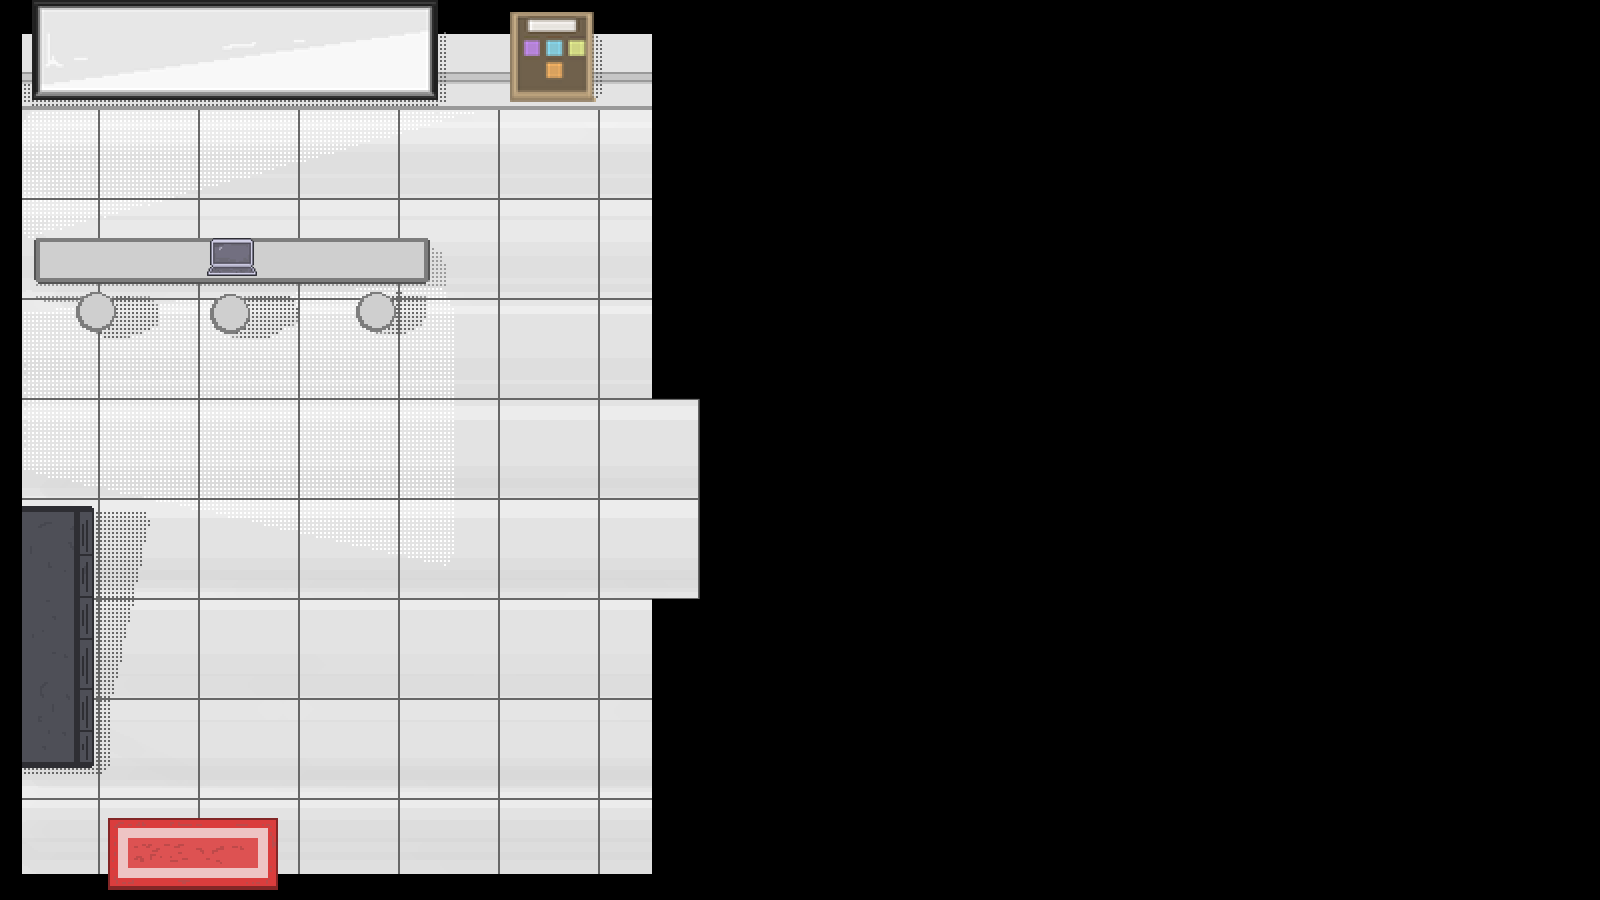
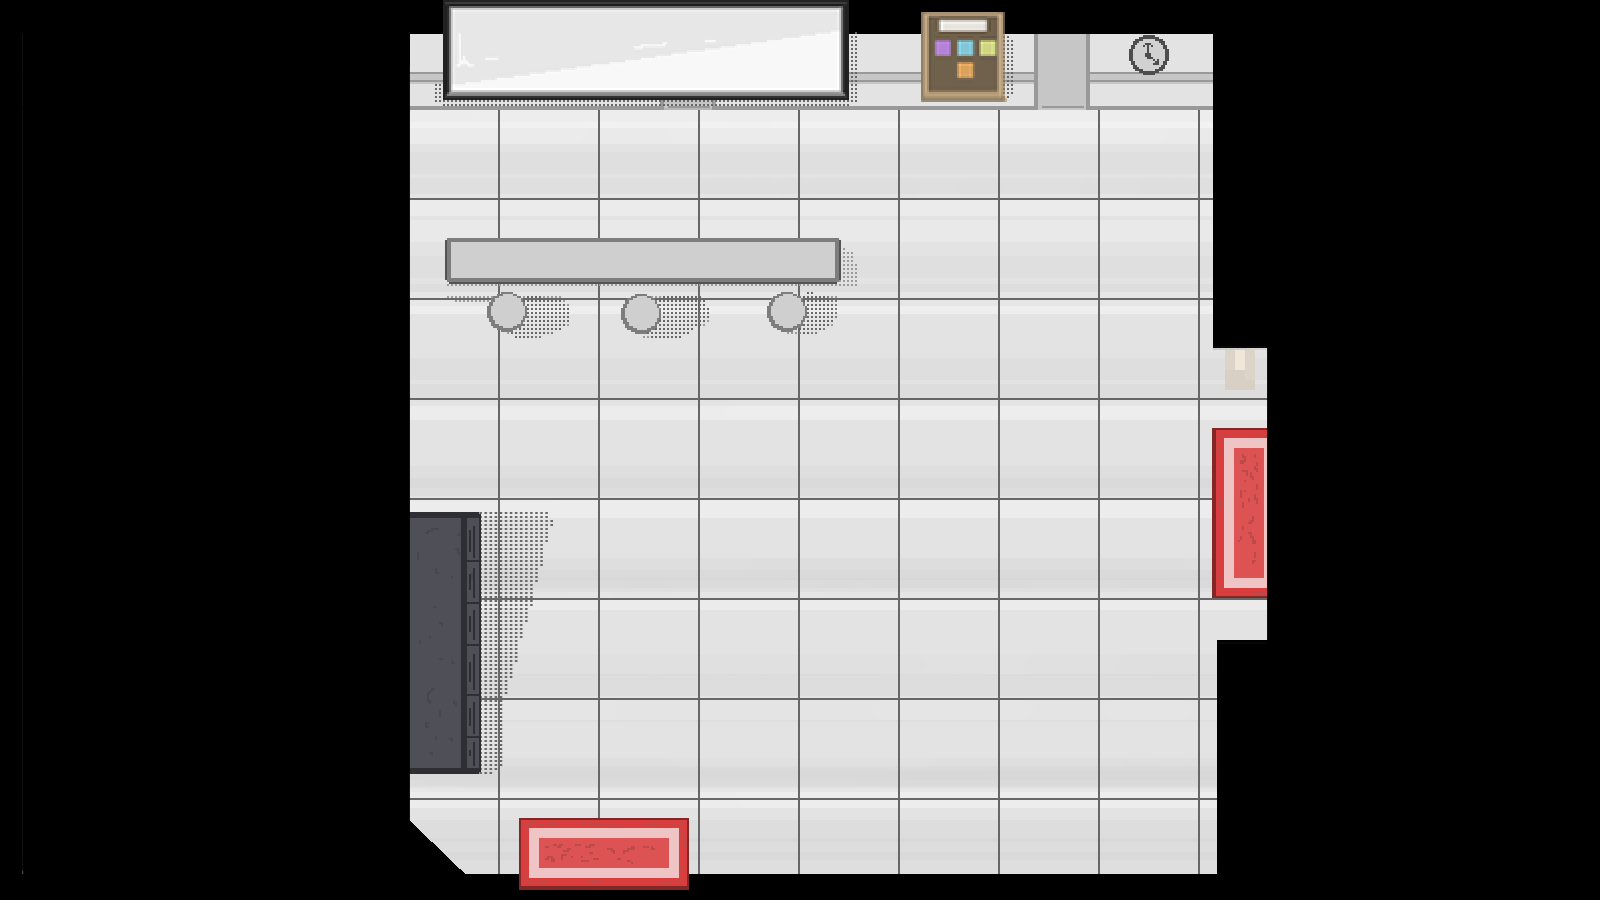
housemap update

diff --git a/core/src/com/codex/learning/states/PlayState.java b/core/src/com/codex/learning/states/PlayState.java
@@ -75,47 +75,19 @@ public class PlayState extends State{
         blockDispensers = new BlockDispenser[2];
 
         computer = new Computer(manager, fuzzyLogic);
-        computer.create(new Vector2(-18, 2.8f), new Vector2(0.6f, 0.6f), 0);
-
-        // WILL BE USED, DON'T ERASE
-        for(int i = 0; i < 10; i++){
-//            if(i == 0){
-//                blocks[i] = new Blocks(manager, "}", "   } ");
-//                blocks[i].create(new Vector2(1.2f + (i * 10), 0),
-//                        new Vector2(Constants.BLOCKS_BRACE_WIDTH, Constants.BLOCKS_HEIGHT), 0);
-//            }
-//            if(i == 1){
-//                blocks[i] = new Blocks(manager, "class", "class HelloWorld{");
-//                blocks[i].create(new Vector2(1.2f + (i * 10), 0),
-//                        new Vector2(Constants.BLOCKS_CLASS_WIDTH, Constants.BLOCKS_HEIGHT), 0);
-//            }
-//            if(i == 2){
-//                blocks[i] = new Blocks(manager, "args", "String[] args)");
-//                blocks[i].create(new Vector2(1.2f + (i * 10), 0),
-//                        new Vector2(Constants.BLOCKS_ARGS_WIDTH, Constants.BLOCKS_HEIGHT), 0);
-//            }
-            blockHolders[i] = new BlockHolder(manager, "}");
-            blockHolders[i].create(new Vector2(6f , i * 2), new Vector2(Constants.BLOCK_HOLDER_WIDTH, Constants.BLOCK_HOLDER_HEIGHT), 0);
+        if(stage >= 1 && stage < 5){
+            computer.create(new Vector2(-6, 2.8f), new Vector2(0.6f, 0.6f), 0);
         }
-        // WILL BE USED, DON'T ERASE
-
-        for(int i = 0; i < 2; i++){
-            if(i == 0){
-                blockDispensers[i] = new BlockDispenser(manager, "Down", "try", "   }  ",
-                        3, new Vector2(Constants.BLOCKS_BRACE_WIDTH, Constants.BLOCKS_HEIGHT));
-            }
-            else{
-                blockDispensers[i] = new BlockDispenser(manager, "Right", "hard", "   }  ",
-                        3, new Vector2(Constants.BLOCKS_BRACE_WIDTH, Constants.BLOCKS_HEIGHT));
-            }
-            blockDispensers[i].create(new Vector2(15 * i, -6), new Vector2(0.3f, 1.3f), 0);
+        else if(stage >=5 && stage < 12){
+            computer.create(new Vector2(-17, 6.5f), new Vector2(0.6f, 0.6f), 0);
         }
+
 
         jedisaur = new Character(manager);
-        jedisaur.create(new Vector2(-15, -5), new Vector2(1.2f, 1.75f), 1.6f);
+        jedisaur.create(new Vector2(0, -5), new Vector2(1.2f, 1.75f), 1.6f);
 
         jediGrandpa = new NPC(manager, stage);
-        jediGrandpa.create(new Vector2(-10, 0), new Vector2(1, 1.4f), 0);
+        jediGrandpa.create(new Vector2(0, 0), new Vector2(1, 1.4f), 0);
 
         totalBlocks = new Blocks[6];
         blockCount = 0;
@@ -245,10 +217,13 @@ public class PlayState extends State{
             if(computer.getCodeRiddle().isInComputer()){
                 jedisaur.render(sprite);
                 computer.render(sprite);
+
+
             }
             else{
-                jedisaur.render(sprite);
                 computer.render(sprite);
+                jedisaur.render(sprite);
+
             }
         }else {
             playroomMap.render(sprite);
@@ -324,7 +299,6 @@ public class PlayState extends State{
         else if(stage >= 5 && stage < 12){
             schoolMap.dispose();
         }
-
     }
 
     public void activeBody(boolean active){
@@ -358,15 +332,24 @@ public class PlayState extends State{
     }
 
     public void enterPlayRoom(Character character){
-        if(character.getBody().getPosition().x > -5.3f && character.getBody().getPosition().y >-4 && character.getBody().getPosition().y < 2.5f){
-            setInStartArea(false);
-
+        if(character.getBody().getPosition().x > 14f && character.getBody().getPosition().y >-4 && character.getBody().getPosition().y < 2.5f){
+            if(computer.isDone()){
+                setInStartArea(false);
+                house.setPlayroomActive(false);
+                jedisaur.getBody().setTransform(-20, 1, 0);
+                jedisaur.getBody().getPosition().set(-20, 1);
+            }
+            else {
+                System.out.println("bawal kapa pumasok jan xD");
+            }
         }
     }
 
     private void exitPlayroom(Character character){
         if(!inStartArea && character.getBody().getPosition().x < -23 && character.getBody().getPosition().y > -4 && character.getBody().getPosition().y < 2.5f){
             setInStartArea(true);
+            jedisaur.getBody().setTransform(14, 1, 0);
+            jedisaur.getBody().getPosition().set(14, 1);
         }
     }
 

diff --git a/core/src/com/codex/learning/states/minigames/CodeRiddle.java b/core/src/com/codex/learning/states/minigames/CodeRiddle.java
@@ -52,7 +52,7 @@ public class CodeRiddle extends State {
 
 
 
-    private boolean inComputer;
+    private boolean inComputer, isDone;
     private int currentQuestion;
     private int error;
 
@@ -105,7 +105,7 @@ public class CodeRiddle extends State {
 
 
         inComputer = false;
-
+        isDone = false;
         getAQuestion("Stage 1", "Novice");
         currentQuestion = 0;
     }
@@ -125,7 +125,7 @@ public class CodeRiddle extends State {
         sprite.begin();
         if(isInComputer()){
             timer += Gdx.graphics.getDeltaTime();
-            System.out.println(timer);
+//            System.out.println(timer);
 
         }
         manager.getStage().act();
@@ -140,13 +140,8 @@ public class CodeRiddle extends State {
         if(isInComputer()){
 
             table.setFillParent(true);
-//            table.debug();
             table.defaults().size(500, 150);
             table.setPosition(manager.getCamera().position.x - Constants.SCREEN_WIDTH/2/Constants.PPM,manager.getCamera().position.x - Constants.SCREEN_HEIGHT/2/Constants.PPM - 10);
-//            text.setText("questions.get(currentQuestion\nasd\nasd\nquestions.get(currentQuesasdasdadadation\nasd\nasd\nasd\nasd\nasd\nquestions.get(currentQuestion\nasd\nasd" +
-//                    "\nquestions.get(currentQuestion\nasd\nasd\nquestions.get(currentQuesasdasdadadation\nasd\nasd\nasd\nasd\nasd\nquestions.get(currentQuestion\nasd\nasd" +
-//                    "\nquestions.get(currentQuestion\nasd\nasd\nquestions.get(currentQuesasdasdadadation\nasd\nasd\nasd\nasd\nasd\nquestions.get(currentQuestion\nasd\nasd" +
-//                    "\nquestions.get(currentQuestion\nasd\nasd\nquestions.get(currentQuesasdasdadadation\nasd\nasd\nasd\nasd\nasd\nquestions.get(currentQuestion\nasd\nasd");
 
             text.setWrap(true);
            if(currentQuestion == manager.getQuestionnaire().getQuestionLimit()){
@@ -206,7 +201,9 @@ public class CodeRiddle extends State {
                                    fuzzyLogic.fuzzyNumberOfError();
                                    fuzzyLogic.fuzzyTimeConsumption();
 
-                                   text.setText("PRESS F TO CLOSE");
+
+                                   text.setText("Your score is: \n" + (manager.getQuestionnaire().getQuestionLimit()-error) + "\n");
+                                   setDone(true);
                                    for(int j=0; j<4; j++){
                                        textButtons[j].setText(" ");
                                    }
@@ -222,10 +219,8 @@ public class CodeRiddle extends State {
            if(!table.hasChildren()){
                scrollPane = new ScrollPane(text, manager.getSkin());
                scrollPane.layout();
-//               scrollPane.updateVisualScroll();
-                scrollPane.setScrollbarsOnTop(true);
+               scrollPane.setScrollbarsOnTop(true);
                scrollPane.setForceScroll(false,true);
-//               scrollPane.debugAll();
                scrollPane.setSmoothScrolling(true);
                table.add(scrollPane).height(150).padTop(25f);
                table.row();
@@ -235,8 +230,6 @@ public class CodeRiddle extends State {
 
 
             manager.getStage().addActor(table);
-//           manager.getStage().setDebugAll(true);
-           // manager.getStage().setScrollFocus(table.getChild(0));
         }
     }
 
@@ -265,4 +258,11 @@ public class CodeRiddle extends State {
         this.inComputer = inComputer;
     }
 
+    public boolean isDone() {
+        return isDone;
+    }
+
+    public void setDone(boolean done) {
+        isDone = done;
+    }
 }

diff --git a/core/src/com/codex/learning/entity/maps/HouseMap.java b/core/src/com/codex/learning/entity/maps/HouseMap.java
@@ -3,6 +3,7 @@ package com.codex.learning.entity.maps;
 import com.badlogic.gdx.graphics.g2d.SpriteBatch;
 import com.badlogic.gdx.graphics.g2d.TextureRegion;
 import com.badlogic.gdx.math.Vector2;
+import com.badlogic.gdx.physics.box2d.BodyDef;
 import com.codex.learning.entity.characters.Character;
 import com.codex.learning.entity.Collisions;
 import com.codex.learning.states.StageSelectState;
@@ -11,7 +12,7 @@ import com.codex.learning.utility.Constants;
 import com.codex.learning.utility.Manager;
 
 public class HouseMap extends State {
-    private Collisions upBorder, downBorder, table, cabinet, fridgeSink;
+    private Collisions upBorder, downBorder, table, cabinet, fridgeSink, leftBorder, playroomBorder;
     private TextureRegion door;
 
     private boolean atDoor;
@@ -20,19 +21,25 @@ public class HouseMap extends State {
         super(manager);
 //      Create invisible collision for the character.
         upBorder = new Collisions(manager);
-        upBorder.create(new Vector2(-6.1f, 8), new Vector2(0.4f, 5.5f), 0);
+        upBorder.create(new Vector2(15.1f, 8), new Vector2(0.4f, 5.5f), 0);
 
         downBorder = new Collisions(manager);
-        downBorder.create(new Vector2(-6.2f, -9), new Vector2(0.4f, 3.3f), 0);
+        downBorder.create(new Vector2(15.1f, -9), new Vector2(0.4f, 3.3f), 0);
+
+        playroomBorder = new Collisions(manager);
+        playroomBorder.create(new Vector2(16.3f, -1.5f), new Vector2(0.4f, 3.5f), 0);
+
+        leftBorder = new Collisions(manager);
+        leftBorder.create(new Vector2(-13f, 12.3f), new Vector2(0.4f, 30), 0);
 
         cabinet = new Collisions(manager);
-        cabinet.create(new Vector2(-8.5f, 12.3f), new Vector2(2, 3), 0);
+        cabinet.create(new Vector2(11.5f, 12.3f), new Vector2(2, 3), 0);
 
         table = new Collisions(manager);
-        table.create(new Vector2(-17.5f, 5), new Vector2(3f, 2.3f), 0);
+        table.create(new Vector2(-5.5f, 5), new Vector2(2.7f, 2.3f), 0);
 
         fridgeSink = new Collisions(manager);
-        fridgeSink.create(new Vector2(-20f, 12.3f), new Vector2(3.3f, 3), 0);
+        fridgeSink.create(new Vector2(-9f, 12.3f), new Vector2(3.3f, 3), 0);
 
 //      Used to exit the map
         atDoor = false;
@@ -64,6 +71,7 @@ public class HouseMap extends State {
         table.disposeBody();
         upBorder.disposeBody();
         downBorder.disposeBody();
+//        playroomBorder.disposeBody();
         cabinet.disposeBody();
     }
 
@@ -85,7 +93,7 @@ public class HouseMap extends State {
     public void enterPlayRoom(Character character){
         if(character.getBody().getPosition().x > -5.3f && character.getBody().getPosition().y >-4 && character.getBody().getPosition().y < 2.5f){
 //            System.out.println("playroom kana lods");
-            setInStartArea(false);
+//            setInStartArea(false);
 
         }
     }
@@ -110,5 +118,10 @@ public class HouseMap extends State {
         table.getBody().setActive(active);
         cabinet.getBody().setActive(active);
         fridgeSink.getBody().setActive(active);
+        leftBorder.getBody().setActive(active);
+    }
+
+    public void setPlayroomActive(boolean active){
+        playroomBorder.getBody().setActive(active);
     }
 }

diff --git a/core/src/com/codex/learning/entity/blocks/Computer.java b/core/src/com/codex/learning/entity/blocks/Computer.java
@@ -16,7 +16,7 @@ import com.codex.learning.utility.Manager;
 
 public class Computer extends Entity {
     private TextureRegion pc;
-    private boolean inContact;
+    private boolean inContact, isDone;
     private CodeRiddle codeRiddle;
     private FuzzyLogic fuzzyLogic;
 
@@ -51,6 +51,7 @@ public class Computer extends Entity {
         shape.dispose();
 
         inContact = false;
+        isDone = false;
 
         pc = new TextureRegion(manager.getPcStateSheet(), Constants.PC_X, Constants.PC_Y, Constants.PC_WIDTH, Constants.PC_HEIGHT);
         codeRiddle = new CodeRiddle(manager, fuzzyLogic);
@@ -58,8 +59,8 @@ public class Computer extends Entity {
 
     @Override
     public void update(float delta) {
-
         checkIfClicked();
+        checkIfDone();
         codeRiddle.update(delta);
     }
 
@@ -79,6 +80,16 @@ public class Computer extends Entity {
         if(isInContact() && Gdx.input.isKeyJustPressed(Input.Keys.E)){
             codeRiddle.setInComputer(true);
         }
+
+    }
+
+    private void checkIfDone(){
+        if(codeRiddle.isDone()){
+            setDone(true);
+        }
+        else {
+            setDone(false);
+        }
     }
 
     public boolean isInContact() {
@@ -95,5 +106,13 @@ public class Computer extends Entity {
 
     public void setCodeRiddle(CodeRiddle codeRiddle) {
         this.codeRiddle = codeRiddle;
+    }
+
+    public boolean isDone() {
+        return isDone;
+    }
+
+    public void setDone(boolean done) {
+        isDone = done;
     }
 }

diff --git a/core/src/com/codex/learning/utility/Manager.java b/core/src/com/codex/learning/utility/Manager.java
@@ -22,6 +22,8 @@ import com.codex.learning.utility.decisiontree.Behavior;
 import com.codex.learning.utility.decisiontree.DecisionTree;
 import com.codex.learning.utility.filereader.Questionnaire;
 
+import java.util.ArrayList;
+import java.util.Arrays;
 import java.util.Stack;
 //This class is used to initiate all once a used assets to prevent multiple calls.
 public class Manager {
@@ -265,6 +267,7 @@ public class Manager {
         String behavior = "";
         String movement = (isMoving()) ? "YES":"NO";
         String interact = checkNumberOfBlockInteractionRule(numberOfBlockInteract);
+//        ArrayList<String> dataset = new ArrayList<String>(Arrays.asList(new String[]{"YES", "LOW", "MEDIUM", "LOW", "LOW"}));
         if(timer % 300 == 0 && timer > 0){
             Behavior.currentDataSet.add(movement);
             Behavior.currentDataSet.add(fuzzyLogic.getTimeConsumptionRules());

diff --git a/core/src/com/codex/learning/entity/characters/NPC.java b/core/src/com/codex/learning/entity/characters/NPC.java
@@ -104,7 +104,6 @@ public class NPC extends Entity {
     public void update(float delta) {
         npcInteraction(delta);
         db.act(delta);
-
     }
 
     @Override
@@ -121,9 +120,7 @@ public class NPC extends Entity {
         }
 
         table.draw(sprite, 1);
-
         sprite.end();
-
     }
 
     public void npcInteraction(float delta){
